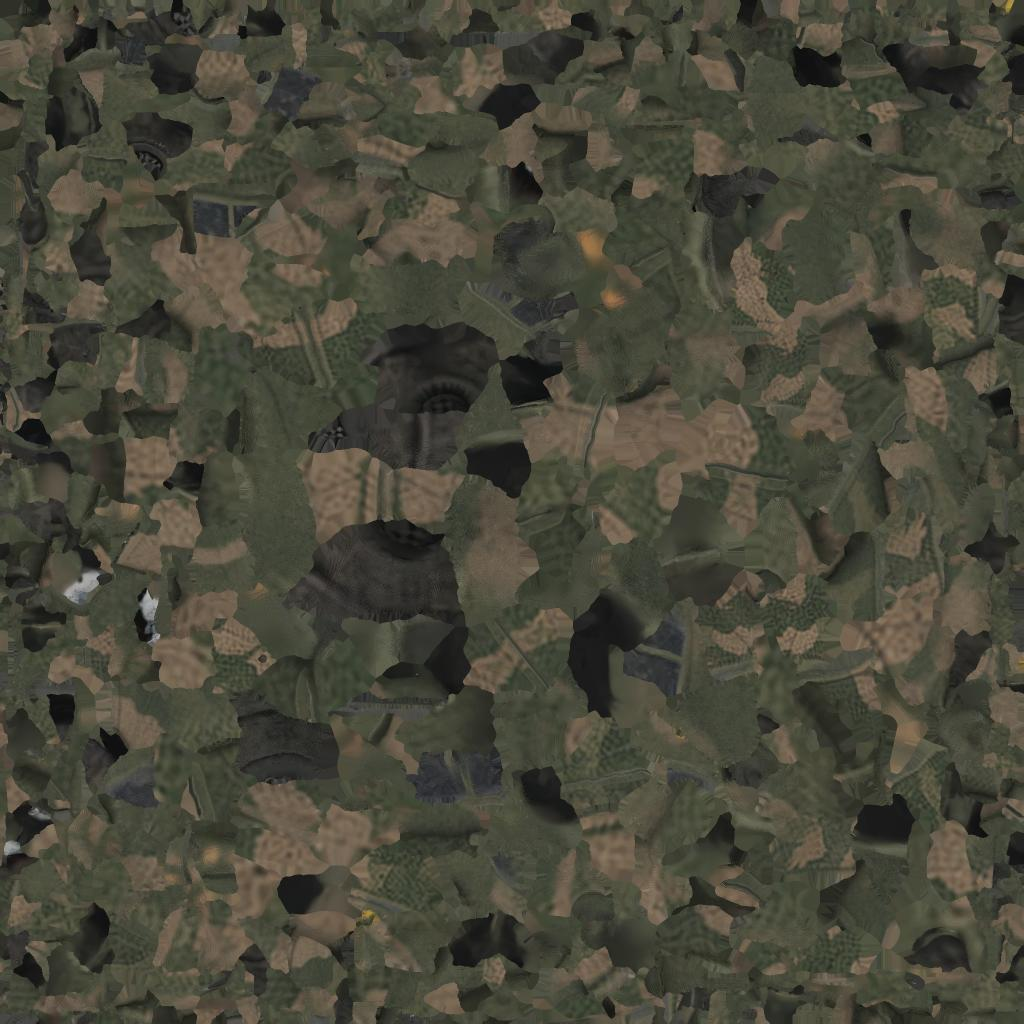
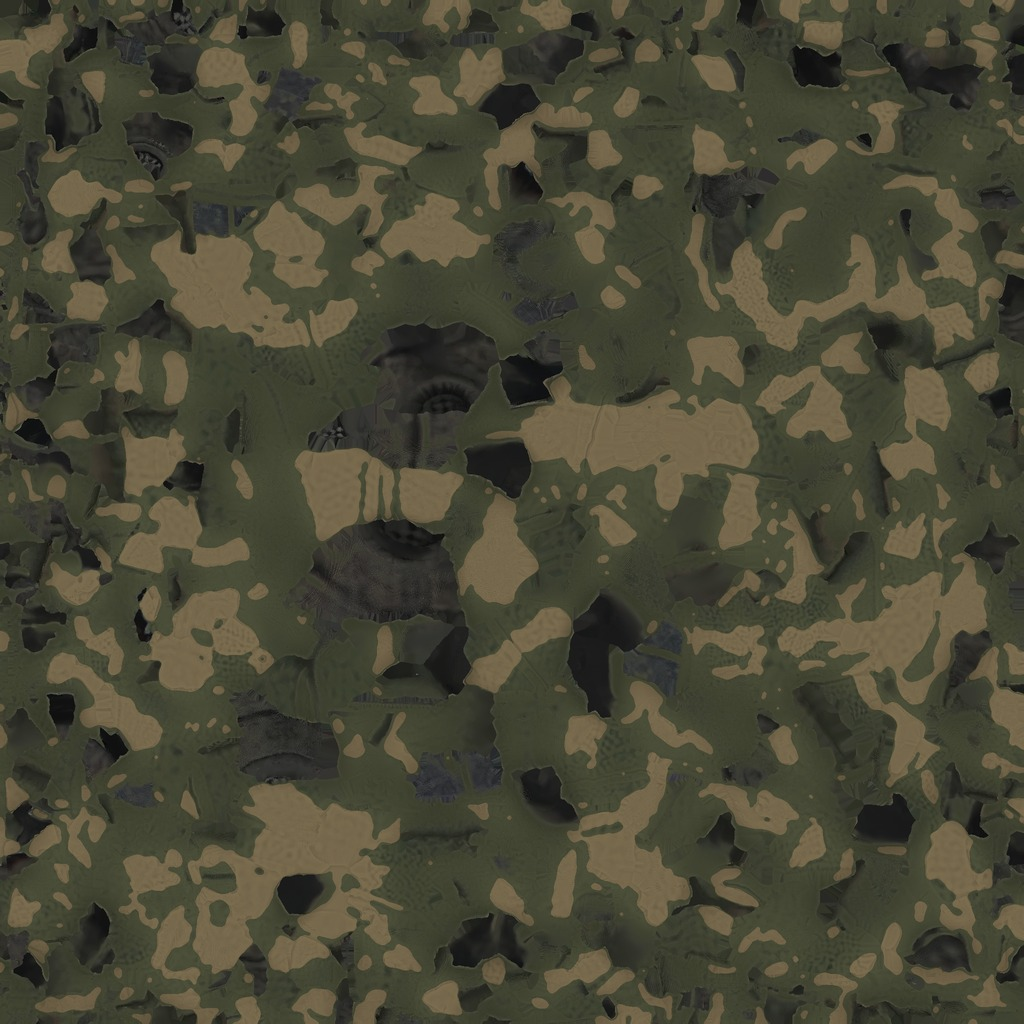
M-25: чистый камуфляж на моделях ангара и боя
Тест 3.5-s3: текстуры ангара «идеально»; решение Kanta 17.10 — перекраска кодом,
без кредитов Meshy. Новый tools/blender/clean_camo.py: раскладка пятен исходная,
цвета — к палитре из 2 тонов, «сетка» и грязь Meshy убраны, швы и стекло сохранены.
Применено к «Грачу» 1–2 и «Осе» 1 (извлечённые PNG ангара и JPG боевых моделей).

Claude-Session: https://claude.ai/code/session_01NJXKdwtwpw6x1yWAthQg3U

diff --git a/game/tools/blender/clean_camo.py b/game/tools/blender/clean_camo.py
@@ -1,0 +1,81 @@
+"""Чистая окраска моделей ангара (тест 3.5-s3: текстуры «идеально»; решение Kanta 17.10 — перекраска кодом,
+кредиты Meshy не тратим). Раскладка пятен камуфляжа — исходная, от Meshy, но каждая точка обшивки
+приводится к одному из K цветов палитры (k-means по самой текстуре, насыщенность возвращается): уходят
+«сетка», «трещины» и грязь Meshy, кромки пятен ровные. Швы и лючки — множитель из высоких частот исходной
+яркости, крупная светотень — слабо. Стекло фонаря (синее) и тёмные части (сопла, ниши, обтекатель) — исходные.
+Пишет базовую текстуру ангара (извлечённый *_0.png) и, если задана, боевую (*_Image_0.jpg — та же развёртка,
+размер свой). Сами GLB не трогаем: Godot перезаписывает извлечённую картинку, только если изменилась встроенная.
+
+Применено (17.10.2026) к камуфлированным: attacker_1 2, attacker_2 2, fighter_1 2. Бомбардировщики и fighter_2
+одноцветные и уже чистые — перекраска давала пятна и съедала швы, оставлены исходными.
+
+Запуск: python3 clean_camo.py <K> <текстура ангара _0.png> [боевая _Image_0.jpg]"""
+import sys
+import numpy as np
+from PIL import Image, ImageFilter
+
+K = int(sys.argv[1])
+src_f = sys.argv[2]
+battle_f = sys.argv[3] if len(sys.argv) > 3 else None
+SAT = 1.45        # k-means усредняет пятна с грязью — палитра сереет; столько насыщенности возвращаем
+LUMA = np.array([0.299, 0.587, 0.114], np.float32)
+
+src_im = Image.open(src_f)
+src = src_im.convert("RGB")
+H = src.size[1]
+s = H / 2048.0    # радиусы фильтров заданы для 2048
+rgb = np.asarray(src, np.float32) / 255
+lum = rgb @ LUMA
+
+
+def gray(a, f):
+    return np.asarray(Image.fromarray((np.clip(a, 0, 1) * 255).astype(np.uint8)).filter(f), np.float32) / 255
+
+
+# палитра: k-means по пикселям обшивки (без тёмных и пересвеченных)
+rng = np.random.default_rng(1)
+pick = rgb[(lum > 0.18) & (lum < 0.92)]
+pick = pick[rng.integers(0, len(pick), 60000)]
+cent = np.quantile(pick, np.linspace(0.2, 0.8, K), axis=0) if K > 1 else pick.mean(0, keepdims=True)
+for _ in range(30):
+    lab = ((pick[:, None, :] - cent[None]) ** 2).sum(-1).argmin(1)
+    cent = np.array([pick[lab == k].mean(0) if (lab == k).any() else cent[k] for k in range(K)])
+cent = cent[np.argsort(cent @ LUMA)]
+lc = (cent @ LUMA)[:, None]
+cent = np.clip(lc + (cent - lc) * SAT, 0, 1)
+print("PALETTE", np.round(cent, 3).tolist())
+
+# раскладка: ближайший цвет палитры по сглаженному исходнику, кромки — медианой
+sm = np.asarray(src.filter(ImageFilter.GaussianBlur(5 * s)), np.float32) / 255
+l0 = (sm @ LUMA)[..., None]
+sm = l0 + (sm - l0) * SAT
+idx = ((sm[..., None, :] - cent[None, None]) ** 2).sum(-1).argmin(-1).astype(np.uint8)
+med = max(3, int(9 * s) | 1)
+idx = np.asarray(Image.fromarray(idx * 50).filter(ImageFilter.MedianFilter(med)).filter(ImageFilter.MedianFilter(med)),
+                 np.uint8) // 50
+camo = cent[np.minimum(idx, K - 1)]
+
+# детали: высокие частоты яркости (швы, лючки), «трещины» почти не видны; крупная светотень — слабо
+blur = gray(lum, ImageFilter.GaussianBlur(4 * s))
+detail = 1 + (np.clip(lum / np.maximum(blur, 0.05), 0.75, 1.06) - 1) * 0.6
+blur24 = gray(lum, ImageFilter.GaussianBlur(24 * s))
+skin = lum > 0.18
+shade = np.clip(blur24 / max(1e-3, float(np.median(blur24[skin]))), 0.85, 1.12)
+new = np.clip(camo * (detail * shade)[..., None], 0, 1)
+
+# стекло (тёмное синее; у голубых самолётов обшивка тоже синяя, но светлая) и тёмное (сопла, ниши, обтекатель носа) — исходные, с мягким переходом
+glass = ((rgb[..., 2] - np.maximum(rgb[..., 0], rgb[..., 1]) > 0.03) & (blur < 0.4)).astype(np.float32)
+dark = np.clip((0.27 - blur) / 0.06, 0, 1)
+keep = gray(np.maximum(glass, dark), ImageFilter.MedianFilter(5))
+keep = gray(keep, ImageFilter.MaxFilter(3))[..., None]
+new = new * (1 - keep) + rgb * keep
+
+out = Image.fromarray((new * 255 + 0.5).astype(np.uint8), "RGB")
+if src_im.mode == "RGBA":
+    out.putalpha(src_im.getchannel("A"))
+out.save(src_f)
+print("SAVED", src_f)
+if battle_f:
+    b = Image.open(battle_f)
+    out.convert("RGB").resize(b.size, Image.LANCZOS).save(battle_f, quality=92)
+    print("SAVED", battle_f)

diff --git a/docs/backlog.md b/docs/backlog.md
@@ -88,7 +88,7 @@
 | M-22 | Тест 3.5-s3, «Грач»: блок НАР ур. 3 — по фото, с пусковыми отверстиями; ур. 5 — переделать «слипшиеся бочки»; турель — с кабины на фюзеляж; эмблема на боку «Грача 2» | Kanta | ✅ 17.10: блоки ур. 3 и 5 по фото (лепестки с отверстиями, ниша с трубами, ур. 5 — один крупный блок), турель за фонарём, знаки «Грача 2» стёрты в текстурах ангара и боя |
 | M-23 | Тест 3.5-s3, «Кит»: турели на крыльях между двигателями (у «Кита 2» ближе к середине крыла), кормовая установка — продолжение фюзеляжа в цвет обшивки; бомбы в бомбоотсеке | Kanta | ✅ 17.10 (PR #58, створки — PR #57) |
 | M-24 | Тест 3.5-s3, «Оса»: ракеты ур. 1 и 3 висят в воздухе — пилоны к крылу; ур. 5 и эволюция одинаковые (у «Грача» тоже) | Kanta | ✅ 17.10: у ракет колодка рельса до кончиков рулей (рельс висел над корпусом), в бою пилон — под настоящим крылом модели, как в ангаре; ур. 5 и эволюция различаются с PR #49 (в ангаре проверено) — проверить в новой сборке |
-| M-25 | Тест 3.5-s3, ангар: оружие осматривать в 3D, как самолёты; текстуры моделей ангара — «идеально» | Kanta | 3D-осмотр — ✅ 17.10 (PR #64); текстуры ангара — решение Kanta 17.10: перекраска кодом в Blender, в работе |
+| M-25 | Тест 3.5-s3, ангар: оружие осматривать в 3D, как самолёты; текстуры моделей ангара — «идеально» | Kanta | 3D-осмотр — ✅ 17.10 (PR #64); текстуры ангара — решение Kanta 17.10: перекраска кодом, ✅ 17.10: камуфляж «Грача» 1–2 и «Осы» 1 почищен (`tools/blender/clean_camo.py`), «Кит» и «Оса» 2 одноцветные и уже чистые — без изменений |
 
 ## После теста 3.4-t1: прокачка и билды (решения владельца 15.10.2026; варианты — `progression/3.4-t1-progression-options.md` в файлах проекта)
 
